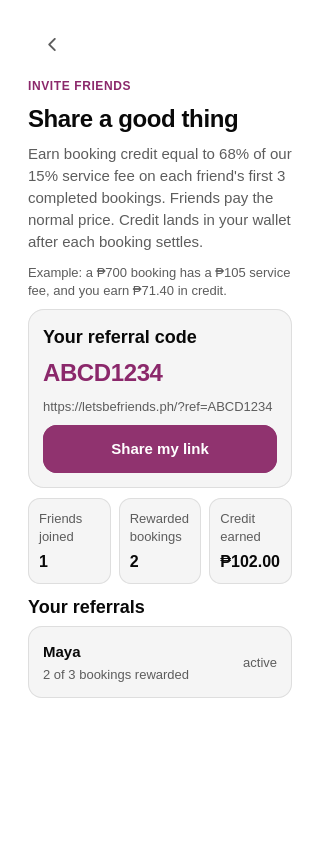
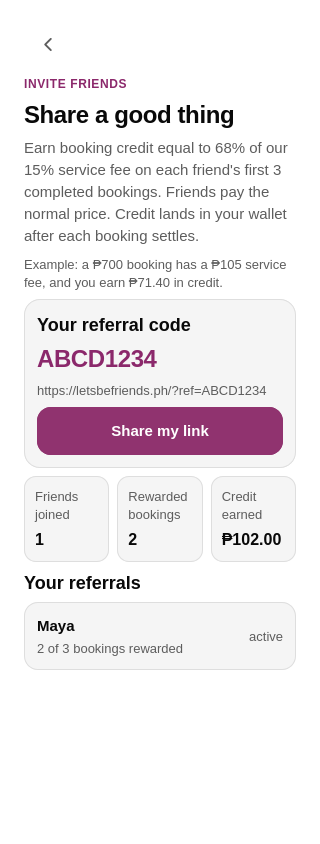
fix(referrals): tighten mobile gutters

Changed region(s): [[0.0625, 0.0924, 0.9062, 0.8318], [0.75, 0.7393, 0.875, 0.8009], [0.125, 0.0308, 0.1875, 0.0616]]

diff --git a/apps/mobile/src/features/referral/ReferralsView.tsx b/apps/mobile/src/features/referral/ReferralsView.tsx
@@ -141,10 +141,10 @@ function Metric({ label, value }: { label: string; value: string }) {
 }
 
 const styles = StyleSheet.create({
-  content: { paddingHorizontal: 12, paddingBottom: 32 },
-  header: { gap: 10, paddingTop: 4 },
+  content: { paddingHorizontal: 8, paddingBottom: 32 },
+  header: { gap: 8, paddingTop: 4 },
   topBar: { flexDirection: 'row', alignItems: 'center' },
-  card: { borderWidth: 1, borderRadius: 16, padding: 14, gap: 10 },
+  card: { borderWidth: 1, borderRadius: 16, padding: 12, gap: 8 },
   metrics: { flexDirection: 'row', gap: 8 },
   metric: { flex: 1, borderWidth: 1, borderRadius: 12, padding: 10, gap: 4 },
   metricValue: { fontSize: 16 },

diff --git a/apps/mobile/src/features/referral/ReferralRow.tsx b/apps/mobile/src/features/referral/ReferralRow.tsx
@@ -45,7 +45,7 @@ const styles = StyleSheet.create({
   card: {
     borderWidth: 1,
     borderRadius: 14,
-    padding: 14,
+    padding: 12,
     flexDirection: 'row',
     alignItems: 'center',
     justifyContent: 'space-between',
